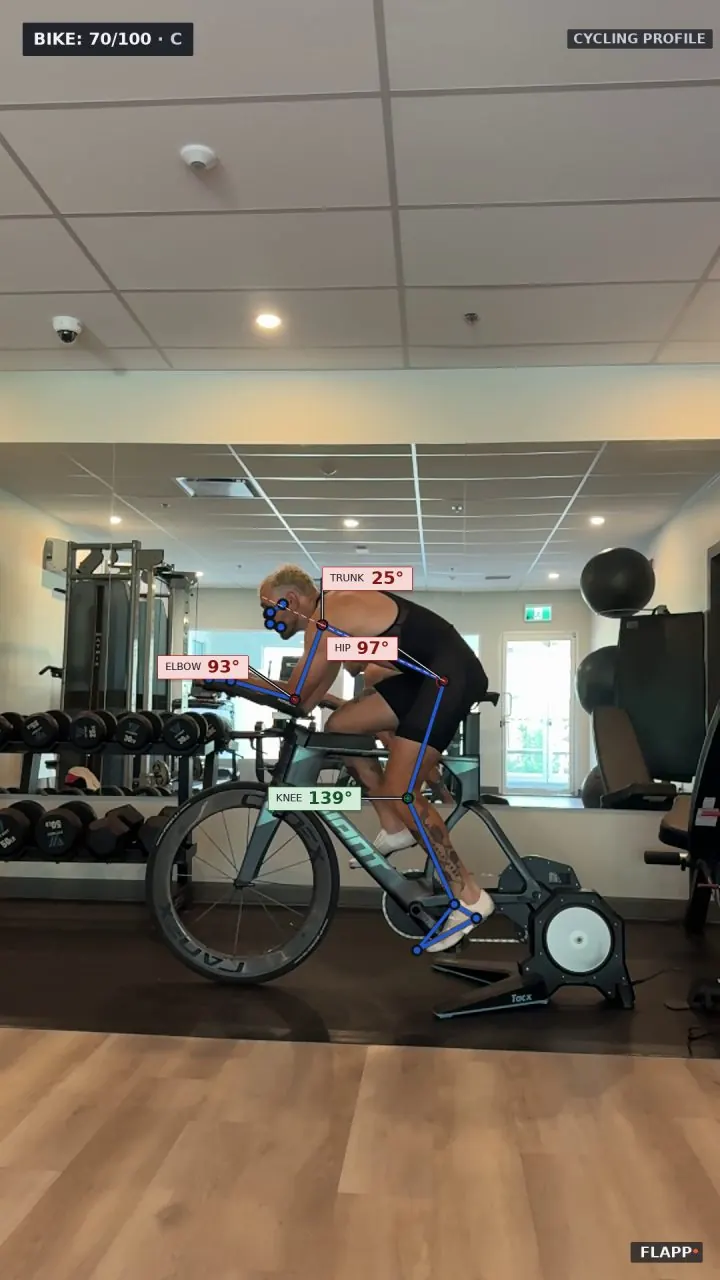
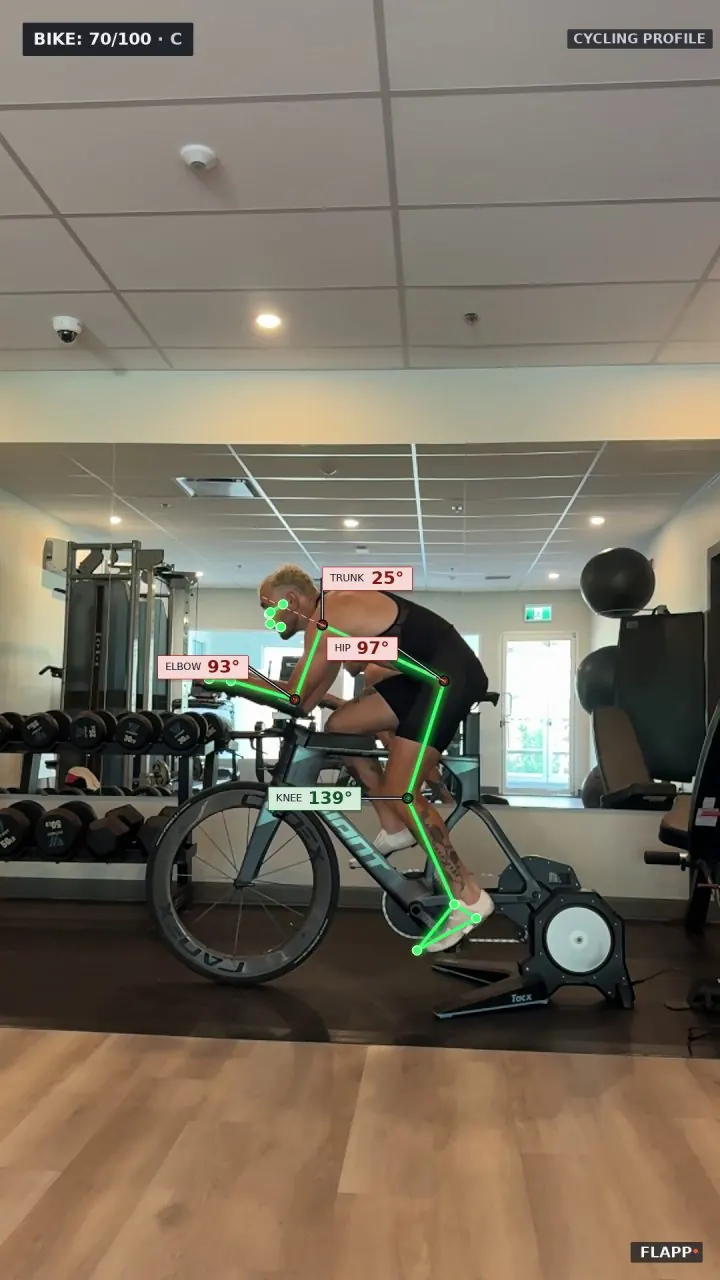
The skeleton is neon green with its glow again
Artur saw the accent-blue skeleton on real footage and asked for the
green back: it is the product's signature over video, and it is what
the landing's hero clip already shows. The glow returns with it, and
the joint editor in the browser draws the same green. The chips keep
the Instrument rule -- a solid card, bordered in ink or its status
line -- and the badge, the wordmark and the leaders are unchanged.
The four sample reports are rebuilt; every number is the same.

diff --git a/backend/app/static/index.html b/backend/app/static/index.html
@@ -3323,7 +3323,7 @@ function lmedDraw(){
   const P=i=>{ const p=pts[i]; return (p&&p.x!=null&&p.vis>=0.3)?[p.x*W,p.y*H]:null; };
   ctx.lineCap='round'; ctx.lineJoin='round';
   // bones: glow, then line
-  [[7*k,'rgba(14,17,22,.55)'],[3*k,'#2457C5']].forEach(([w,col])=>{
+  [[8*k,'rgba(30,190,80,.45)'],[3*k,'#3DFF6E']].forEach(([w,col])=>{
     ctx.lineWidth=Math.max(1,w); ctx.strokeStyle=col; ctx.beginPath();
     LMED_BONES[lmed.side].forEach(([a,b])=>{ const A=P(a),B=P(b); if(A&&B){ ctx.moveTo(A[0],A[1]); ctx.lineTo(B[0],B[1]); } });
     ctx.stroke();
@@ -3332,8 +3332,8 @@ function lmedDraw(){
   dots.forEach(i=>{ const p=P(i); if(!p) return;
     const r=Math.max(5,7*k), moved=!!lmed.moved[i], live=lmed.drag===i;
     ctx.beginPath(); ctx.arc(p[0],p[1],r*(live?1.6:1.25),0,Math.PI*2); ctx.lineWidth=Math.max(1.5,2*k); ctx.strokeStyle='#fff'; ctx.stroke();
-    ctx.beginPath(); ctx.arc(p[0],p[1],r*0.55,0,Math.PI*2); ctx.fillStyle=moved?'#B7791F':'#2457C5'; ctx.fill();
-    if(moved){ ctx.beginPath(); ctx.arc(p[0],p[1],r*1.9,0,Math.PI*2); ctx.lineWidth=Math.max(1,1.5*k); ctx.strokeStyle='#B7791F'; ctx.stroke(); }
+    ctx.beginPath(); ctx.arc(p[0],p[1],r*0.55,0,Math.PI*2); ctx.fillStyle=moved?'#FFA82E':'#3DFF6E'; ctx.fill();
+    if(moved){ ctx.beginPath(); ctx.arc(p[0],p[1],r*1.9,0,Math.PI*2); ctx.lineWidth=Math.max(1,1.5*k); ctx.strokeStyle='#FFA82E'; ctx.stroke(); }
   });
   // live angle at the vertex being dragged
   const tri=LMED_VERTEX[lmed.side][lmed.drag];
@@ -3522,7 +3522,7 @@ function vedDraw(){
   ctx.clearRect(0,0,W,H);
   const P=L=>{ const p=vedPoint(L); return (p&&p.vis>=0.3)?[p.x*W,p.y*H]:null; };
   ctx.lineCap='round'; ctx.lineJoin='round';
-  [[7*k,'rgba(14,17,22,.55)'],[3*k,'#2457C5']].forEach(([w,col])=>{
+  [[8*k,'rgba(30,190,80,.45)'],[3*k,'#3DFF6E']].forEach(([w,col])=>{
     ctx.lineWidth=Math.max(1,w); ctx.strokeStyle=col; ctx.beginPath();
     LMED_BONES[ved.side].forEach(([a,b])=>{ const A=P(a),B=P(b); if(A&&B){ ctx.moveTo(A[0],A[1]); ctx.lineTo(B[0],B[1]); } });
     ctx.stroke();
@@ -3530,8 +3530,8 @@ function vedDraw(){
   ved.draggable.forEach(L=>{ const p=P(L); if(!p) return;
     const r=Math.max(5,7*k), moved=!!(ved.pending[L]||ved.existing[L]), live=ved.drag===L;
     ctx.beginPath(); ctx.arc(p[0],p[1],r*(live?1.6:1.25),0,Math.PI*2); ctx.lineWidth=Math.max(1.5,2*k); ctx.strokeStyle='#fff'; ctx.stroke();
-    ctx.beginPath(); ctx.arc(p[0],p[1],r*0.55,0,Math.PI*2); ctx.fillStyle=moved?'#B7791F':'#2457C5'; ctx.fill();
-    if(moved){ ctx.beginPath(); ctx.arc(p[0],p[1],r*1.9,0,Math.PI*2); ctx.lineWidth=Math.max(1,1.5*k); ctx.strokeStyle='#B7791F'; ctx.stroke(); }
+    ctx.beginPath(); ctx.arc(p[0],p[1],r*0.55,0,Math.PI*2); ctx.fillStyle=moved?'#FFA82E':'#3DFF6E'; ctx.fill();
+    if(moved){ ctx.beginPath(); ctx.arc(p[0],p[1],r*1.9,0,Math.PI*2); ctx.lineWidth=Math.max(1,1.5*k); ctx.strokeStyle='#FFA82E'; ctx.stroke(); }
   });
   const tri=LMED_VERTEX[ved.side][ved.drag];
   if(tri){ const pts=tri.map(vedPoint); if(pts.every(Boolean)){ const ang=lmedAngle(pts[0],pts[1],pts[2],ved.aspect), p=P(ved.drag);

diff --git a/backend/app/services/video_analysis/overlay_style.py b/backend/app/services/video_analysis/overlay_style.py
@@ -36,14 +36,15 @@ FONT_REGULAR = _FONT_DIR / "DejaVuSans.ttf"
 FONT_BOLD = _FONT_DIR / "DejaVuSans-Bold.ttf"
 
 # --- palette (RGB) --------------------------------------------------------
-# The Instrument system's "over footage" rules (design handoff, Sep 2026):
-# the skeleton is the accent on a 55% ink halo -- the accent alone is 2.6:1
-# on daylight asphalt, with the halo 8.4:1 -- and a chip is a solid card
-# with a border in ink or its status line, never a transparent label.
-ACCENT = (36, 87, 197)         # skeleton line, the one accent
-HALO = (14, 17, 22)            # under every bone and dot, at 55%
-NEON = ACCENT                  # legacy name: "the skeleton colour"
-NEON_DIM = HALO                # legacy name: "what sits under it"
+# The skeleton is the neon green with its soft glow -- Artur's call after
+# seeing the accent-blue version (13 Sep 2026): the green is the product's
+# signature on footage and it is what the landing's hero video shows. The
+# chips follow the Instrument "over footage" rule instead: a solid card with
+# a border in ink or its status line, never a transparent label.
+NEON = (61, 255, 110)          # skeleton line / joint fill
+NEON_DIM = (30, 190, 80)       # the glow underlay
+ACCENT = (36, 87, 197)         # the UI accent, kept for callers that want it
+HALO = (14, 17, 22)            # under leaders and behind the corrected-joint ring
 # status/good/warn/bad as text · line · tint -- each text AA on its own tint
 GOOD_TEXT, GOOD_LINE, GOOD_TINT = (20, 83, 42), (46, 125, 58), (213, 235, 217)
 WARN_TEXT, WARN_LINE, WARN_TINT = (107, 78, 6), (183, 121, 31), (247, 234, 200)
@@ -231,33 +232,47 @@ def draw_glow_skeleton(
     line_w: int = 2,
     dot_r: int = 4,
 ) -> None:
-    """Draw the accent skeleton on its halo, in place.
+    """Draw the neon skeleton with its soft glow, in place.
 
-    ``glow`` keeps its name from the neon days; it now switches the halo: a
-    55% ink stroke four pixels wider than every bone, and a filled disc under
-    every joint. It is part of the skeleton, not an option -- the accent on
-    its own fails on asphalt and on grass -- so callers leave it on. One
-    ``addWeighted`` over the frame does the 55%, which is cheaper than the
-    blurred layer it replaces and still affordable on every frame of a clip.
+    The glow is a blurred copy of the bones screened back over the frame --
+    one blur for the whole skeleton, not per bone, and built small (see
+    :data:`GLOW_LAYER_LONG_EDGE`), so it is affordable on every frame of a
+    clip rather than only on a one-off still.
     """
     if not segments and not dots:
         return
 
     if glow:
-        halo = frame.copy()
-        hw = line_w + 4
+        h, w = frame.shape[:2]
+        # Draw the glow small, blur it there, scale it back. `f` <= 1 always:
+        # a frame already smaller than the glow canvas is left at its own size.
+        f = min(1.0, GLOW_LAYER_LONG_EDGE / max(w, h, 1))
+        gw, gh = max(1, int(round(w * f))), max(1, int(round(h * f)))
+        layer = np.zeros((gh, gw, frame.shape[2]), dtype=frame.dtype)
+        gw_line = max(1, int(round((line_w + 5) * f)))
+        gr_dot = max(1, int(round((dot_r + 3) * f)))
         for (a, b) in segments:
-            cv2_mod.line(halo, a, b, _bgr(HALO), hw, cv2_mod.LINE_AA)
+            cv2_mod.line(
+                layer, (int(a[0] * f), int(a[1] * f)), (int(b[0] * f), int(b[1] * f)),
+                _bgr(NEON_DIM), gw_line, cv2_mod.LINE_AA,
+            )
         for p in dots:
-            cv2_mod.circle(halo, p, dot_r + 2, _bgr(HALO), -1, cv2_mod.LINE_AA)
-        cv2_mod.addWeighted(halo, 0.55, frame, 0.45, 0.0, dst=frame)
+            cv2_mod.circle(
+                layer, (int(p[0] * f), int(p[1] * f)), gr_dot,
+                _bgr(NEON_DIM), -1, cv2_mod.LINE_AA,
+            )
+        sigma = max(1.0, GLOW_BLUR_SIGMA * f * max(1.0, w / 900))
+        layer = cv2_mod.GaussianBlur(layer, (0, 0), sigmaX=sigma, sigmaY=sigma)
+        if (gw, gh) != (w, h):
+            layer = cv2_mod.resize(layer, (w, h), interpolation=cv2_mod.INTER_LINEAR)
+        # screen-ish blend: keep the brighter of frame/glow so it never darkens
+        cv2_mod.max(frame, layer, dst=frame)
 
     for (a, b) in segments:
-        cv2_mod.line(frame, a, b, _bgr(ACCENT), line_w, cv2_mod.LINE_AA)
-    ring = max(1, int(round(dot_r / 3)))   # the 1.5 px ink ring, scaled with the dot
+        cv2_mod.line(frame, a, b, _bgr(NEON), line_w, cv2_mod.LINE_AA)
     for p in dots:
-        cv2_mod.circle(frame, p, dot_r, _bgr(ACCENT), -1, cv2_mod.LINE_AA)
-        cv2_mod.circle(frame, p, dot_r, _bgr(HALO), ring, cv2_mod.LINE_AA)
+        cv2_mod.circle(frame, p, dot_r, _bgr(NEON), -1, cv2_mod.LINE_AA)
+        cv2_mod.circle(frame, p, dot_r, _bgr((250, 255, 250)), 1, cv2_mod.LINE_AA)
 
 
 def draw_corrected_marks(
@@ -271,9 +286,8 @@ def draw_corrected_marks(
     reviewer -- is entitled to know which points those are.
     """
     for p in points:
-        cv2_mod.circle(frame, p, r + 1, _bgr(HALO), 4, cv2_mod.LINE_AA)
-        cv2_mod.circle(frame, p, r, _bgr(WARN_LINE), 2, cv2_mod.LINE_AA)
-        cv2_mod.circle(frame, p, r + 4, _bgr(INK_INVERSE), 1, cv2_mod.LINE_AA)
+        cv2_mod.circle(frame, p, r, _bgr(NEON), 2, cv2_mod.LINE_AA)
+        cv2_mod.circle(frame, p, r + 3, _bgr((250, 255, 250)), 1, cv2_mod.LINE_AA)
 
 
 def draw_leader(
